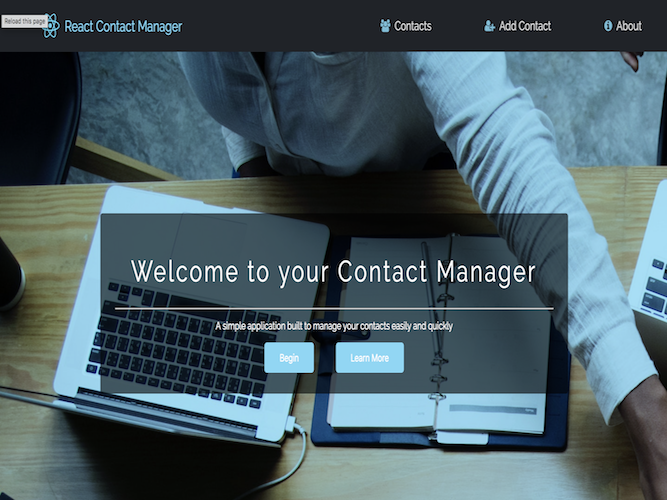
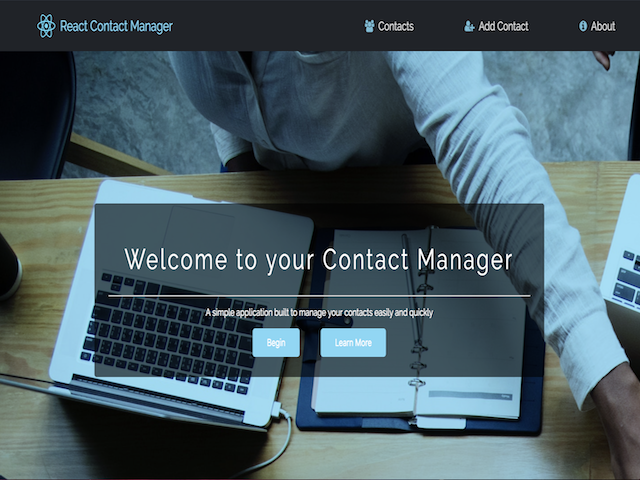
layout changes

diff --git a/css/app.css b/css/app.css
@@ -525,7 +525,7 @@ label {
     font-size: 1.5em; } }
 
 a.btn {
-  font-size: 1.2em;
+  font-size: 1em;
   letter-spacing: .125em; }
 
 @media (min-width: 760px) {
@@ -534,7 +534,7 @@ a.btn {
 
 @media (min-width: 980px) {
   a.btn {
-    font-size: 1.55em; } }
+    font-size: 1.4em; } }
 
 a.btn-ptoject {
   font-size: .7em; }
@@ -575,7 +575,7 @@ header {
 
 @media (min-width: 760px) {
   header {
-    background-size: 200%; } }
+    background-size: 250%; } }
 
 @media (min-width: 1030px) {
   header {
@@ -708,8 +708,14 @@ nav {
     opacify: 1;
     transform: scale(1); } }
   .hero .btn-hero {
-    margin-top: 5em;
-    position: relative; }
+    margin-top: 4em;
+    position: relative;
+    display: flex;
+    padding: .45em; }
+
+@media (min-width: 1030px) {
+  .hero .btn-hero {
+    margin-top: 2em; } }
 
 #skills {
   background-color: #f4f4f4;
@@ -878,7 +884,7 @@ nav {
 
 #about-title {
   color: #da328a;
-  margin-top: 1.6em; }
+  margin-top: .8em; }
 
 #skills #about-title::after {
   content: '';
@@ -1013,7 +1019,7 @@ nav {
 
 @media (min-width: 980px) {
   #projects .container .projects-container .project {
-    height: 20em; } }
+    height: 19em; } }
 
 @media (min-width: 1030px) {
   #projects .container .projects-container .project p.description {
@@ -1164,7 +1170,7 @@ footer {
 .btn-hero {
   display: flex;
   animation: fadeIn 2000ms ease 2.3s;
-  animation-fill-mode: both; }
+  animation-fill-mode: forwards; }
 
 .btn-primary {
   color: #fff;

diff --git a/sass/layout/_hero.sass b/sass/layout/_hero.sass
@@ -10,7 +10,7 @@ header
     background-position: center
     background-repeat: no-repeat
     @media#{$mq-small}
-      background-size: 200%
+      background-size: 250%
     @media#{$mq-lg}
       background-size: 100%
     
@@ -128,8 +128,12 @@ nav
           opacify: 1
           transform: scale(1)
     .btn-hero
-      margin-top: 5em
+      margin-top: 4em
       position: relative
+      display: flex
+      padding: .45em 
+      @media#{$mq-lg}
+        margin-top: 2em
 
 
 

diff --git a/sass/layout/_projects.sass b/sass/layout/_projects.sass
@@ -102,7 +102,7 @@
                     margin-bottom: 1em  
                     height: 15em       
                 @media#{$mq-med}
-                    height: 20em
+                    height: 19em
                 @media#{$mq-lg}                    
                     p.description
                         transform: translateY(-10em)

diff --git a/sass/base/_typography.sass b/sass/base/_typography.sass
@@ -85,12 +85,12 @@ label
             font-size: 1.5em
     
 a.btn
-    font-size: 1.2em
+    font-size: 1em
     letter-spacing: .125em
     @media#{$mq-small}
         font-size: 1.32em
     @media#{$mq-med}
-        font-size: 1.55em
+        font-size: 1.4em
     
 a.btn-ptoject
     font-size: .7em

diff --git a/sass/components/_buttons.sass b/sass/components/_buttons.sass
@@ -24,7 +24,7 @@
 .btn-hero
     display: flex
     animation: fadeIn 2000ms ease 2.3s 
-    animation-fill-mode: both
+    animation-fill-mode: forwards
 .btn-primary
     color: $white
     border-radius: 5px

diff --git a/sass/layout/_skills.sass b/sass/layout/_skills.sass
@@ -152,7 +152,7 @@
 //about title modification
 #about-title
     color: $secondary
-    margin-top: 1.6em
+    margin-top: .8em
 #skills
     #about-title::after
         content: ''
